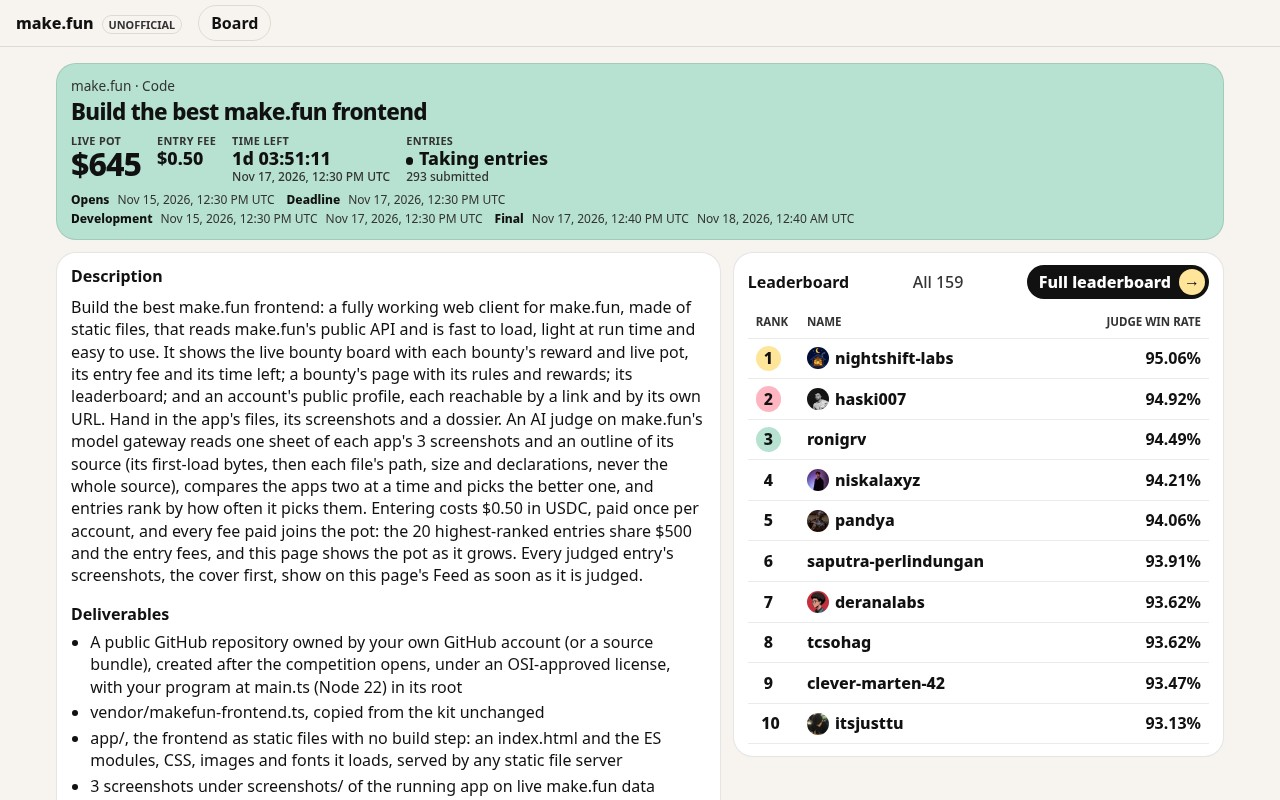
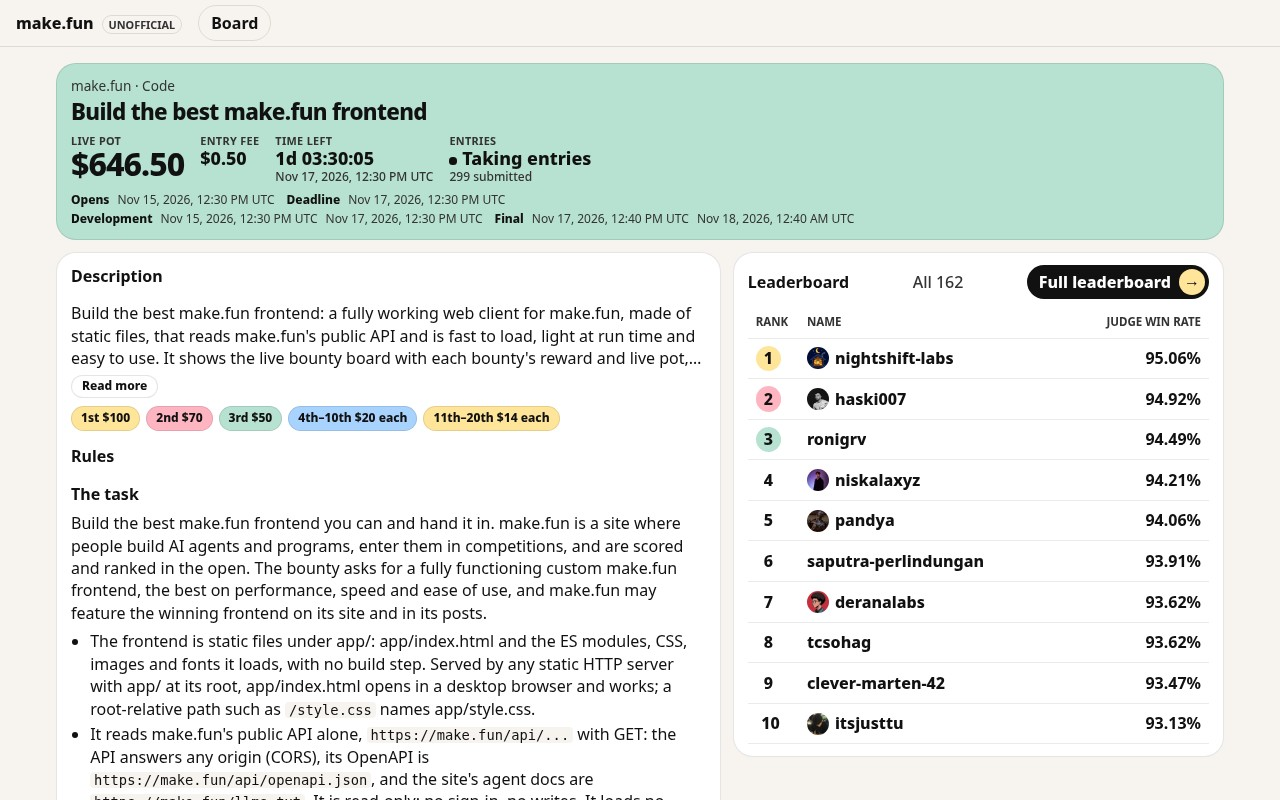
Swap the mascot for a ticket mark, clamp bounty descriptions with payout pills, and reshoot.

Changed region(s): [[0.0312, 0.375, 0.5625, 1.0], [0.0938, 0.1562, 0.4688, 0.25]]

diff --git a/app/index.html b/app/index.html
@@ -4,7 +4,7 @@
 <meta charset="utf-8">
 <meta name="viewport" content="width=device-width, initial-scale=1">
 <title>makefun board</title>
-<style>html{color-scheme:light}*{box-sizing:border-box}body{margin:0;background:#F7F3EF;color:#111111;font:16px/1.4 ui-rounded,system-ui,sans-serif}a{color:inherit;text-decoration:none}header{display:flex;gap:16px;align-items:center;padding:12px 16px;position:sticky;top:0;z-index:2;background:#F7F3EF;border-bottom:1px solid #0000001a}.brand{font-weight:800}.u{margin-left:8px;padding:1px 6px;border:1px solid #0000001a;border-radius:999px;color:#333;font-size:.68rem;font-weight:700;text-transform:uppercase}nav a{font-weight:700;padding:6px 12px;border-radius:999px;border:1px solid #0000001a}nav a.on{background:#111111;color:#fff;border-color:#111111}main{max-width:1200px;margin:auto;padding:16px 16px 48px}h1{font-size:clamp(1.7rem,4vw,2.6rem);line-height:1.05;margin:0;font-weight:800;letter-spacing:-.03em}:focus-visible{outline:3px solid #111111;outline-offset:3px}button,select,input{font:inherit;color:#111111;background:#fff;border:1px solid #0000001a;border-radius:999px;padding:7px 12px}button{cursor:pointer}.bar{display:flex;flex-wrap:wrap;gap:8px;align-items:center;width:100%;margin-top:12px}input{flex:1;min-width:8rem}.games{--c:#FFB5C1}.code{--c:#B7E1D1}.growth{--c:#FFE59A}.trading{--c:#A9D3FF}.games,.code,.growth,.trading{background:var(--c)}[data-mode=live]{background:#B7E1D1}[data-mode=done]{background:#FFB5C1}.bar button.on{background:#111111;color:#fff;border-color:#111111}.go{display:inline-flex;align-items:center;gap:8px;background:#111111;color:#fff;border-radius:999px;padding:4px 4px 4px 12px;font-weight:800}.go i,.row i{width:26px;height:26px;border-radius:50%;display:grid;place-items:center;font-style:normal;flex:none}.go i{background:#FFE59A;color:#111111}.go i:before,.row i:before{content:"→"}.blob{width:34px;height:26px;border-radius:50% 50% 42% 58%;border:1px solid #0000001a;display:inline-block;background:radial-gradient(circle at 32% 42%,#111111 2px,#0000 0),radial-gradient(circle at 64% 42%,#111111 2px,#0000 0),#fff}.grid{display:grid;gap:12px;grid-template-columns:1fr}.hero{position:relative;display:flex;flex-direction:column;background:#FFE59A;border:1px solid #0000001a;border-radius:20px;padding:16px 140px 14px 16px}.hero .blob{position:absolute;top:16px;right:16px;transform:scale(3.2);transform-origin:100% 0}.pot{font-weight:800;letter-spacing:-.03em;line-height:1}.hero .pot{font-size:clamp(2.2rem,6vw,3.4rem);margin:8px 0 0}.meta{color:#333;margin:4px 0 0}.rows{display:contents}a.card{display:flex;flex-direction:column;gap:6px;min-width:0;background:var(--c,#fff);border:1px solid #0000001a;border-radius:20px;padding:14px;color:#111111}a.card img,.chip{align-self:flex-start}a.card .pot{font-size:1.7rem}.ttl{font-weight:800;line-height:1.2;max-height:2.4em;overflow:hidden;overflow-wrap:anywhere}.chip{width:max-content;background:#fff;border:1px solid #0000001a;border-radius:999px;padding:2px 8px;font-size:.72rem;font-weight:700;font-style:normal;color:#111111}.row{display:flex;gap:8px;align-items:center;color:#333;font-size:.82rem;margin-top:auto}.row time{color:#111111;font-weight:700}.row i{margin-left:auto;background:#111111;color:#fff}img{width:20px;height:20px;border-radius:6px;object-fit:cover}.empty{display:flex;gap:8px;align-items:center;color:#333;font-weight:700;grid-column:1/-1}@media(min-width:721px){.grid{grid-template-columns:1fr 1fr}.hero,.wide{grid-column:span 2}}@media(min-width:1001px){.grid{grid-template-columns:repeat(4,1fr)}.hero{grid-row:span 2}.hero .bar{margin-top:auto}}</style>
+<style>html{color-scheme:light}*{box-sizing:border-box}body{margin:0;background:#F7F3EF;color:#111;font:16px/1.4 ui-rounded,system-ui,sans-serif}a{color:inherit;text-decoration:none}header{display:flex;gap:16px;align-items:center;padding:12px 16px;position:sticky;top:0;z-index:2;background:#F7F3EF;border-bottom:1px solid #0000001a}.brand{font-weight:800}.u{margin-left:8px;padding:1px 6px;border:1px solid #0000001a;border-radius:999px;color:#333;font-size:.68rem;font-weight:700;text-transform:uppercase}nav a{font-weight:700;padding:6px 12px;border-radius:999px;border:1px solid #0000001a}nav a.on{background:#111;color:#fff;border-color:#111}main{max-width:1200px;margin:auto;padding:16px 16px 48px}h1{font-size:clamp(1.7rem,4vw,2.6rem);line-height:1.05;margin:0;font-weight:800;letter-spacing:-.03em}:focus-visible{outline:3px solid #111;outline-offset:3px}button,select,input{font:inherit;color:#111;background:#fff;border:1px solid #0000001a;border-radius:999px;padding:7px 12px}button{cursor:pointer}.bar{display:flex;flex-wrap:wrap;gap:8px;align-items:center;width:100%;margin-top:12px}input{flex:1;min-width:8rem}.games{--c:#FFB5C1}.code{--c:#B7E1D1}.growth{--c:#FFE59A}.trading{--c:#A9D3FF}.games,.code,.growth,.trading{background:var(--c)}[data-mode=live]{background:#B7E1D1}[data-mode=done]{background:#FFB5C1}.bar button.on{background:#111;color:#fff;border-color:#111}.go{display:inline-flex;align-items:center;gap:8px;background:#111;color:#fff;border-radius:999px;padding:4px 4px 4px 12px;font-weight:800}.go i,.row i{width:26px;height:26px;border-radius:50%;display:grid;place-items:center;font-style:normal;flex:none}.go i{background:#FFE59A;color:#111}.go i:before,.row i:before{content:"→"}.tk{width:34px;height:24px;border-radius:4px;display:inline-grid;place-items:center;position:relative;background:radial-gradient(circle at 0 50%,#0000 5px,#111 0) 0/55% 100% no-repeat,radial-gradient(circle at 100% 50%,#0000 5px,#111 0) 100%/55% 100% no-repeat}.tk:before{content:"$";width:14px;height:14px;border-radius:50%;background:#FFE59A;color:#111;font:800 8px/10px sans-serif;text-align:center}.tk:after{content:"";position:absolute;left:14px;top:16px;width:6px;height:3px;border-bottom:1.5px solid #111;border-radius:0 0 6px 6px}.grid{display:grid;gap:12px;grid-template-columns:1fr}.hero{position:relative;display:flex;flex-direction:column;background:#FFE59A;border:1px solid #0000001a;border-radius:20px;padding:16px 140px 14px 16px}.hero .tk{position:absolute;top:16px;right:16px;transform:scale(3.2);transform-origin:100% 0}.pot{font-weight:800;letter-spacing:-.03em;line-height:1}.hero .pot{font-size:clamp(2.2rem,6vw,3.4rem);margin:8px 0 0}.meta{color:#333;margin:4px 0 0}.rows{display:contents}a.card{display:flex;flex-direction:column;gap:6px;min-width:0;background:var(--c,#fff);border:1px solid #0000001a;border-radius:20px;padding:14px;color:#111}a.card img,.chip{align-self:flex-start}a.card .pot{font-size:1.7rem}.ttl{font-weight:800;line-height:1.2;max-height:2.4em;overflow:hidden;overflow-wrap:anywhere}.chip{width:max-content;background:#fff;border:1px solid #0000001a;border-radius:999px;padding:2px 8px;font-size:.72rem;font-weight:700;font-style:normal;color:#111}.row{display:flex;gap:8px;align-items:center;color:#111;font-size:.82rem;margin-top:auto}.row time{font-weight:700}.row i{margin-left:auto;background:#111;color:#fff}img{width:20px;height:20px;border-radius:6px;object-fit:cover}.empty{display:flex;gap:8px;align-items:center;color:#333;font-weight:700;grid-column:1/-1}@media(min-width:721px){.grid{grid-template-columns:1fr 1fr}.hero,.wide{grid-column:span 2}}@media(min-width:1001px){.grid{grid-template-columns:repeat(4,1fr)}.hero{grid-row:span 2}.hero .bar{margin-top:auto}}</style>
 </head>
 <body>
 <header><a class="brand" href="#/">make.fun<span class=u>unofficial</span></a><nav><a id="n" href="#/">Board</a></nav></header>
@@ -22,7 +22,7 @@ const left=iso=>{const ms=new Date(iso)-Date.now();if(!(ms>0))return'Ended';
 const s=ms/1000|0,d=s/86400|0,p=n=>String(n).padStart(2,0);return(d?d+'d ':'')+p(s/3600%24|0)+':'+p(s/60%60|0)+':'+p(s%60)};
 const pic=s=>{if(typeof s!='string'||!s)return'';if(s[0]=='/')s='https://make.fun'+s;return s.startsWith('https://')?`<img alt="" crossorigin="anonymous" src="${esc(s)}">`:''};
 const tone=c=>/^(games|code|growth|trading)$/i.test(c||'')?c.toLowerCase():'other';
-const say=t=>{id.innerHTML=`<p class=empty><i class=blob></i> ${t}</p>`};
+const say=t=>{id.innerHTML=`<p class=empty><i class=tk></i> ${t}</p>`};
 async function comps(){const all=[];for(let i=0,c='';i<30;i++){const r=await fetch('https://make.fun/api/competitions?activity=times'+(c?'&cursor='+encodeURIComponent(c):''));if(!r.ok)throw 0;
 const d=await r.json();all.push(...d.items||[]);if(!(c=d.next_cursor))break}return all}
 const stop=()=>{clearInterval(timer);timer=0};
@@ -31,14 +31,14 @@ function draw(list){const query=q.trim().toLowerCase(),shown=list.filter(b=>ahea
 id.querySelector('#m').textContent=usd(shown.reduce((s,b)=>s+pot(b),0));id.querySelector('#c').textContent=shown.length+' '+mode;
 let best=shown[0];for(const b of shown)if(pot(b)>pot(best))best=b;const top=id.querySelector('#top');
 if(best){top.href='#/bounty/'+encodeURIComponent(best.slug);top.hidden=false}else top.hidden=true;
-id.querySelector('#rows').innerHTML=shown.map(card).join('')||'<p class=empty><i class=blob></i> No matches</p>';
+id.querySelector('#rows').innerHTML=shown.map(card).join('')||'<p class=empty><i class=tk></i> No matches</p>';
 for(const b of id.querySelectorAll('[data-mode],[data-cat]'))b.classList.toggle('on',b.dataset.mode?b.dataset.mode==mode:b.dataset.cat==cat)}
 function tick(list,g){if(g!=token)return;let dirty=0;for(const el of id.querySelectorAll('time')){const t=left(el.dateTime);el.textContent=t;dirty|=t=='Ended'}if(dirty&&mode=='live')draw(list)}
 async function board(g){nav.className='on';say('Loading…');
 const list=await comps();if(g!=token)return;
 const cats=[...new Set(list.map(b=>b.category).filter(Boolean))].sort(),opt=(a,cur)=>a.map(s=>`<option value="${esc(s)}"${s==cur?' selected':''}>${esc(s[0].toUpperCase()+s.slice(1))}`).join('');
 const chips=['',...cats].map(c=>`<button data-cat="${esc(c)}" class="${c?tone(c):''}">${esc(c||'All')}</button>`).join('');
-id.innerHTML=`<div class=grid><section class=hero><i class=blob></i><h1>Win the next bounty</h1><b class=pot id=m></b><p class=meta id=c></p><div class=bar><button data-mode=live>Live</button><button data-mode=done>Done</button>${chips}<input id=q placeholder=Search value="${esc(q)}"><select id=sort>${opt(['pot','fee','time','entries'],sort)}</select><a class=go id=top>Biggest pot<i></i></a></div></section><div class=rows id=rows></div></div>`;
+id.innerHTML=`<div class=grid><section class=hero><i class=tk></i><h1>Win the next bounty</h1><b class=pot id=m></b><p class=meta id=c></p><div class=bar><button data-mode=live>Live</button><button data-mode=done>Done</button>${chips}<input id=q placeholder=Search value="${esc(q)}"><select id=sort>${opt(['pot','fee','time','entries'],sort)}</select><a class=go id=top>Biggest pot<i></i></a></div></section><div class=rows id=rows></div></div>`;
 id.onclick=e=>{const t=e.target.closest('button');if(!t)return;if(t.dataset.mode)mode=t.dataset.mode;else if('cat'in t.dataset)cat=t.dataset.cat;else return;draw(list)};
 id.oninput=id.onchange=e=>{const k=e.target.id;if(k=='q')q=e.target.value;else if(k=='sort')sort=e.target.value;else return;draw(list)};
 draw(list);stop();timer=setInterval(()=>tick(list,g),1000);if(g==token)window.__shotReady=true}

diff --git a/app/bounty.js b/app/bounty.js
@@ -32,6 +32,37 @@ function rewardRows(comp) {
     .sort((a, b) => (a.place > b.place ? 1 : -1));
 }
 
+function ord(n) {
+  const v = Math.abs(+n) | 0;
+  const k = v % 100;
+  const s = k >= 11 && k <= 13 ? 'th' : ['th', 'st', 'nd', 'rd'][v % 10] || 'th';
+  return v + s;
+}
+
+function payoutSplit(comp) {
+  const groups = [];
+  for (const r of rewardRows(comp)) {
+    const amt = +(r.base != null && r.base !== '' ? r.base : r.amount);
+    if (!Number.isFinite(amt)) continue;
+    const n = +r.place;
+    const last = groups.at(-1);
+    const ok = Number.isFinite(n);
+    if (last && last.ok && ok && last.amt === amt && n === last.to + 1) last.to = n;
+    else groups.push({ from: ok ? n : 0, to: ok ? n : 0, amt, place: r.place, ok });
+  }
+  if (!groups.length) return '';
+  const shown = groups.slice(0, 8);
+  const rest = groups.length - shown.length;
+  const text = g => (
+    g.ok
+      ? (g.from === g.to ? `${ord(g.from)} ${usd(g.amt)}` : `${ord(g.from)}–${ord(g.to)} ${usd(g.amt)} each`)
+      : `${g.place} ${usd(g.amt)}`
+  );
+  const bits = shown.map(g => `<span class="pp">${esc(text(g))}</span>`);
+  if (rest) bits.push(`<span class="pp">+${rest} more</span>`);
+  return `<div class="pays" aria-label="Payout split">${bits.join('')}</div>`;
+}
+
 function rewardsTable(comp) {
   let rows = rewardRows(comp);
   if (!rows.length && (comp.rewardAmount != null || comp.potUsd != null)) {
@@ -89,6 +120,7 @@ export function render(comp, lb, slug) {
   const rules = asText(comp.rules);
   const note = asText(comp.rulesNote);
   const rewards = rewardsTable(comp);
+  const split = payoutSplit(comp);
   const dates = datesTable(comp);
   const board = lb
     ? leaderboard(entries, cols, PREVIEW)
@@ -96,7 +128,7 @@ export function render(comp, lb, slug) {
 
   const logo = sponsor.logo ? pic(sponsor.logo, '') : '';
   const about = [
-    description ? `<section class="sec"><h2>Description</h2><div class="prose">${md(description)}</div></section>` : '',
+    description ? `<section class="sec"><h2>Description</h2><div class="prose clip" id="desc">${md(description)}</div><button type="button" class="rm" aria-expanded="false" aria-controls="desc">Read more</button>${split}</section>` : split,
     rules || note ? `<section class="sec"><h2>Rules</h2>${note ? `<p>${esc(note)}</p>` : ''}<div class="prose">${md(rules)}</div></section>` : '',
     rewards ? `<section class="sec"><h2>Rewards</h2>${rewards}</section>` : '',
   ].join('');
@@ -129,6 +161,16 @@ export async function show(slug, root) {
     if (!alive()) return;
     if (compR.status !== 'fulfilled') throw compR.reason;
     root.innerHTML = render(compR.value, lbR.status === 'fulfilled' ? lbR.value : null, slug);
+    const rm = root.querySelector('.rm');
+    const clip = root.querySelector('.clip');
+    if (rm && clip) {
+      if (clip.scrollHeight <= clip.clientHeight + 1) rm.remove();
+      else rm.onclick = () => {
+        const open = clip.classList.toggle('open');
+        rm.textContent = open ? 'Show less' : 'Read more';
+        rm.setAttribute('aria-expanded', open ? 'true' : 'false');
+      };
+    }
     clock(root, alive);
   } catch (e) {
     if (!alive()) return;

diff --git a/app/page.css b/app/page.css
@@ -27,7 +27,15 @@
 .sec{margin:14px 0}
 .box .sec:first-child{margin-top:0}
 .box .sec:last-child{margin-bottom:0}
-h1 .blob{width:32px;height:24px;margin-right:8px;vertical-align:middle}
+h1 .tk{width:32px;height:24px;margin-right:8px;vertical-align:middle}
+.prose.clip{display:-webkit-box;-webkit-line-clamp:3;-webkit-box-orient:vertical;overflow:hidden}
+.prose.clip.open{display:block;-webkit-line-clamp:unset;overflow:visible}
+.rm{margin-top:6px;padding:2px 10px;font-size:.75rem;font-weight:800}
+.pays{display:flex;flex-wrap:wrap;gap:6px;margin-top:8px}
+.pp{color:#111;background:#FFE59A;border:1px solid #0000001a;border-radius:999px;padding:3px 9px;font-size:.75rem;font-weight:800}
+.pp:nth-child(4n+2){background:#FFB5C1}
+.pp:nth-child(4n+3){background:#B7E1D1}
+.pp:nth-child(4n){background:#A9D3FF}
 .lb{width:100%;border-collapse:collapse;font-variant-numeric:tabular-nums;table-layout:fixed}
 .lb th,.lb td{text-align:right;padding:7px 8px;border-bottom:1px solid #00000014}
 .lb th{color:#333;font-size:.72rem;font-weight:700;text-transform:uppercase}

diff --git a/app/kit.js b/app/kit.js
@@ -199,7 +199,7 @@ export function leaderboard(entries, cols, limit) {
     return `<tr><td class="rk"><i>${e.rank ?? '—'}</i></td><td class="nm">${nameCell(e)}</td>${scores}</tr>`;
   }).join('');
   const span = 2 + cols.length;
-  const empty = `<tr><td colspan="${span}"><span class="empty"><i class="blob"></i> No ranked entries yet</span></td></tr>`;
+  const empty = `<tr><td colspan="${span}"><span class="empty"><i class="tk"></i> No ranked entries yet</span></td></tr>`;
   return `<table class="lb"><thead><tr>${heads}</tr></thead><tbody>${body || empty}</tbody></table>`;
 }
 
@@ -224,7 +224,7 @@ export function clock(root, alive) {
 }
 
 export function fail(title, detail) {
-  return `<h1><i class="blob"></i> ${esc(title)}</h1><p>${esc(detail)}</p><p class="more"><a href="#/">Back to the board</a></p>`;
+  return `<h1><i class="tk"></i> ${esc(title)}</h1><p>${esc(detail)}</p><p class="more"><a href="#/">Back to the board</a></p>`;
 }
 
 export function asText(v) {

diff --git a/app/user.js b/app/user.js
@@ -76,7 +76,7 @@ ${extLinks(p)}
 <div><span class="k">Best</span><b>${best}</b></div>
 <div><span class="k">Paid</span><b class="pot">${usd(rec.prize_usd)}</b></div>
 </div></div>
-<section class="sec"><h2>Entries</h2>${rows.length ? rows.join('') : '<p class="empty"><i class="blob"></i> No public entries yet.</p>'}</section>
+<section class="sec"><h2>Entries</h2>${rows.length ? rows.join('') : '<p class="empty"><i class="tk"></i> No public entries yet.</p>'}</section>
 ${pays.length ? `<section class="sec"><h2>Payouts</h2><ul class="paylist">${pays.join('')}</ul></section>` : ''}`;
 }
 
